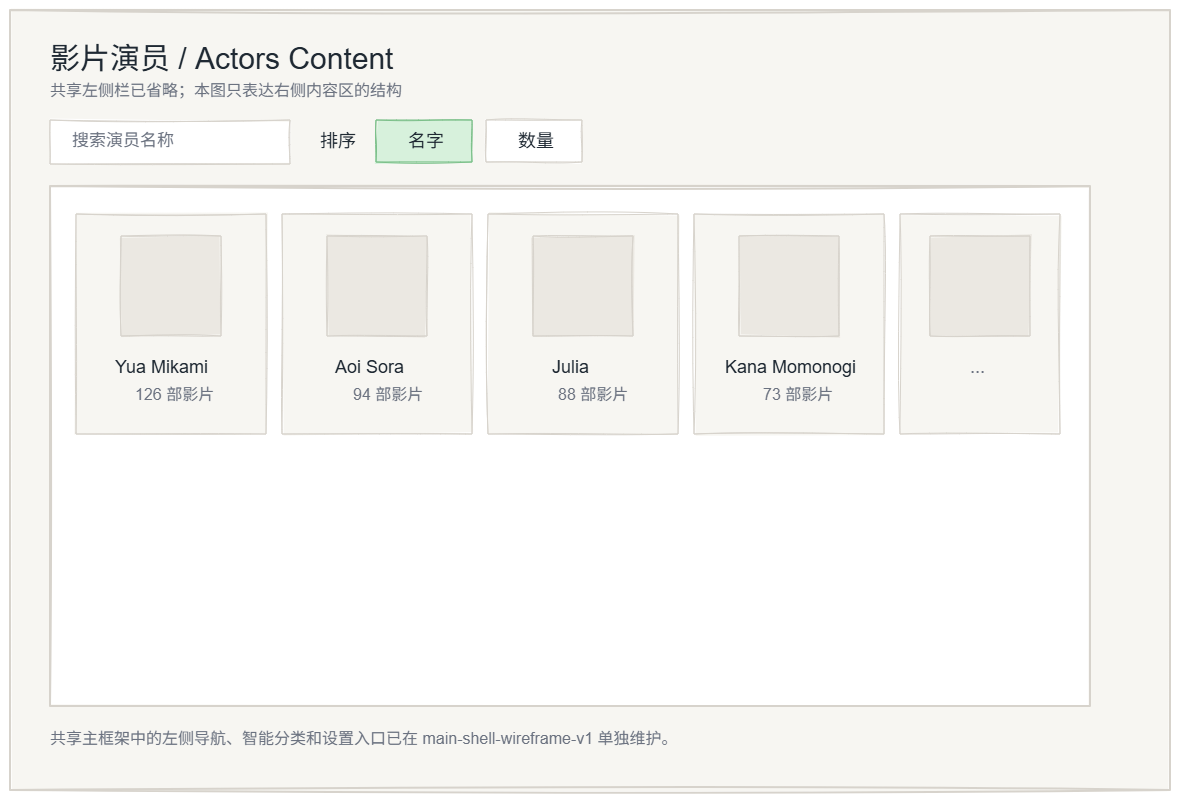
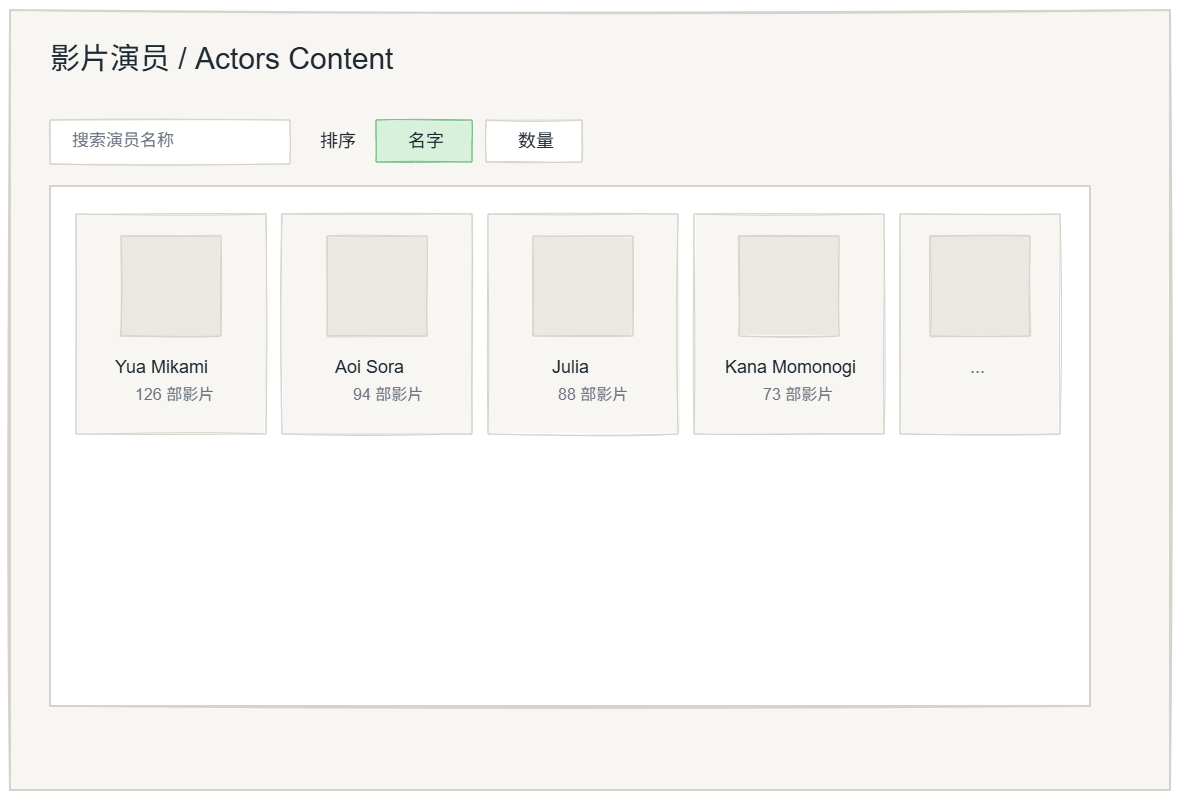
docs: refine actors page spec

diff --git a/doc/UI/new/actors-page.md b/doc/UI/new/actors-page.md
@@ -1,41 +1,89 @@
 # Actors Page Spec
 
-## Purpose
+## 页面目的
 
-- Provide a dedicated first-level page for actor aggregation and browsing.
+- `Actors Page` 是演员聚合列表的一级入口页。
+- 它负责跨库浏览演员结果集，并作为独立演员详情页的入口。
 
-## Layout
+## 页面范围
 
-- This page reuses the shared main shell defined in `main-shell.md`.
-- The page wireframe should focus on the right content area only.
-- Page title: `影片演员` or `Actors`
-- Top row:
-  - search
-  - sort
-    - `名字`
-    - `数量`
-  - do not place extra actions on the top-right side of the content area in this phase
-- Main content:
-  - adaptive card grid
-  - current page scope is all actresses found across the configured libraries
-  - actor avatar size stays fixed even when the window width changes
-  - card column count adapts to window width
+- 本页负责：
+  - 展示演员聚合结果集
+  - 提供关键字筛选、排序、分页
+  - 打开独立演员详情页
+- 本页不负责：
+  - 展示演员关联影片详情内容本身
+  - 管理媒体库
+  - 展示影片详情主内容
 
-## Behavior
+## 数据来源
 
-- Reuse the existing `ActorList` data and interaction model.
-- Keep the current actor search and favorites-related capabilities where they already exist.
+- 演员列表：
+  - `GET /api/actors`
+- 演员详情跳转目标：
+  - `GET /api/actors/{actorId}`
 
-## Actor card content
+## 布局
 
-- Avatar
-  - fixed-size thumbnail
-- Name
-- Video count
+- 本页复用 `main-shell.md` 定义的共享壳层。
+- 当前线框只表达右侧内容区。
+- 顶部保留：
+  - 搜索框
+  - 排序按钮组
+- 排序项第一轮至少包含：
+  - `名字`
+  - `数量`
+- 主体区域使用自适应演员卡片网格。
+- 演员头像在窗口伸缩时保持固定尺寸。
 
-Do not show extra tag, favorite-state, or secondary metadata text inside the actor card in this phase.
+## 元素清单
 
-## Notes
+| 元素 | 类型 | 常显 | 行为 | 数据来源 | 说明 |
+| --- | --- | --- | --- | --- | --- |
+| 页面标题 | 静态标题 | 是 | 无 | 固定文案 | 文案为 `影片演员 / Actors` |
+| 搜索框 | 输入框 | 是 | 更新关键字筛选 | 当前查询状态 | 用于演员名搜索 |
+| 排序按钮组 | 轻量切换按钮 | 是 | 切换排序字段 | 当前查询状态 | 至少保留名字/数量 |
+| 演员卡片网格 | 内容区 | 是 | 点击进入演员详情页 | `GET /api/actors` | 统一卡片密度 |
+| 单张演员卡片 | 卡片 | 是 | 进入演员详情 | 当前列表项 | 显示头像、名字、影片数 |
 
-- This page is a content page, not a library-management page.
-- It should inherit the new shell and theme styles without reworking actor business logic in this documentation phase.
+## 交互规则
+
+- 从左侧一级导航 `演员` 进入本页。
+- 搜索框输入关键字后刷新演员结果集。
+- 点击演员卡片后进入独立演员详情页。
+- 从演员详情返回时应恢复当前搜索、排序和分页状态。
+- 当前阶段不在列表页内展开抽屉式详情。
+
+## 状态定义
+
+### Loading
+
+- 首次进入本页时显示演员结果集 loading。
+
+### Empty
+
+- 没有命中演员结果时显示轻量空态。
+
+### Error
+
+- 演员结果集拉取失败时显示错误提示与刷新入口。
+
+## 性能与体验约束
+
+- 演员头像尺寸固定，避免因响应式变化导致视觉抖动。
+- 列表页只保留名字与影片数等最小信息，不在卡片内堆更多元数据。
+- 当前阶段优先保证列表浏览与详情跳转闭环稳定。
+
+## 回归点
+
+- 能从左侧导航进入 Actors。
+- 搜索与排序有效。
+- 分页切换有效。
+- 点击演员卡片后能进入独立详情页。
+- 返回 Actors 后状态能正确恢复。
+
+## 相关文档
+
+- 共享组件：`shared-components.md`
+- 主壳层：`main-shell.md`
+- 演员详情页：`actor-detail-page.md`
